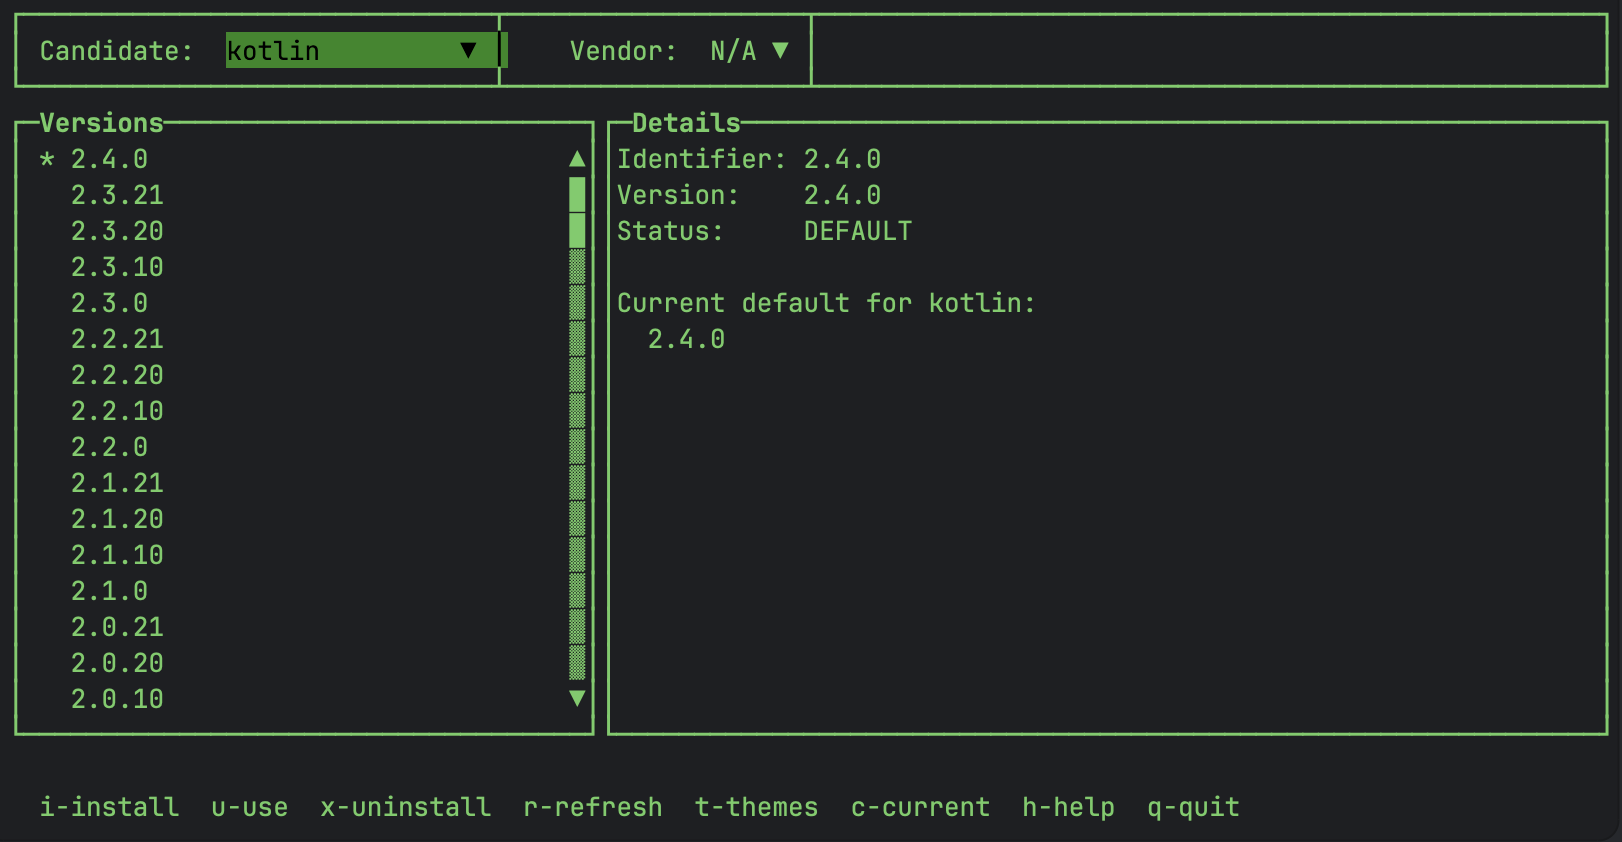
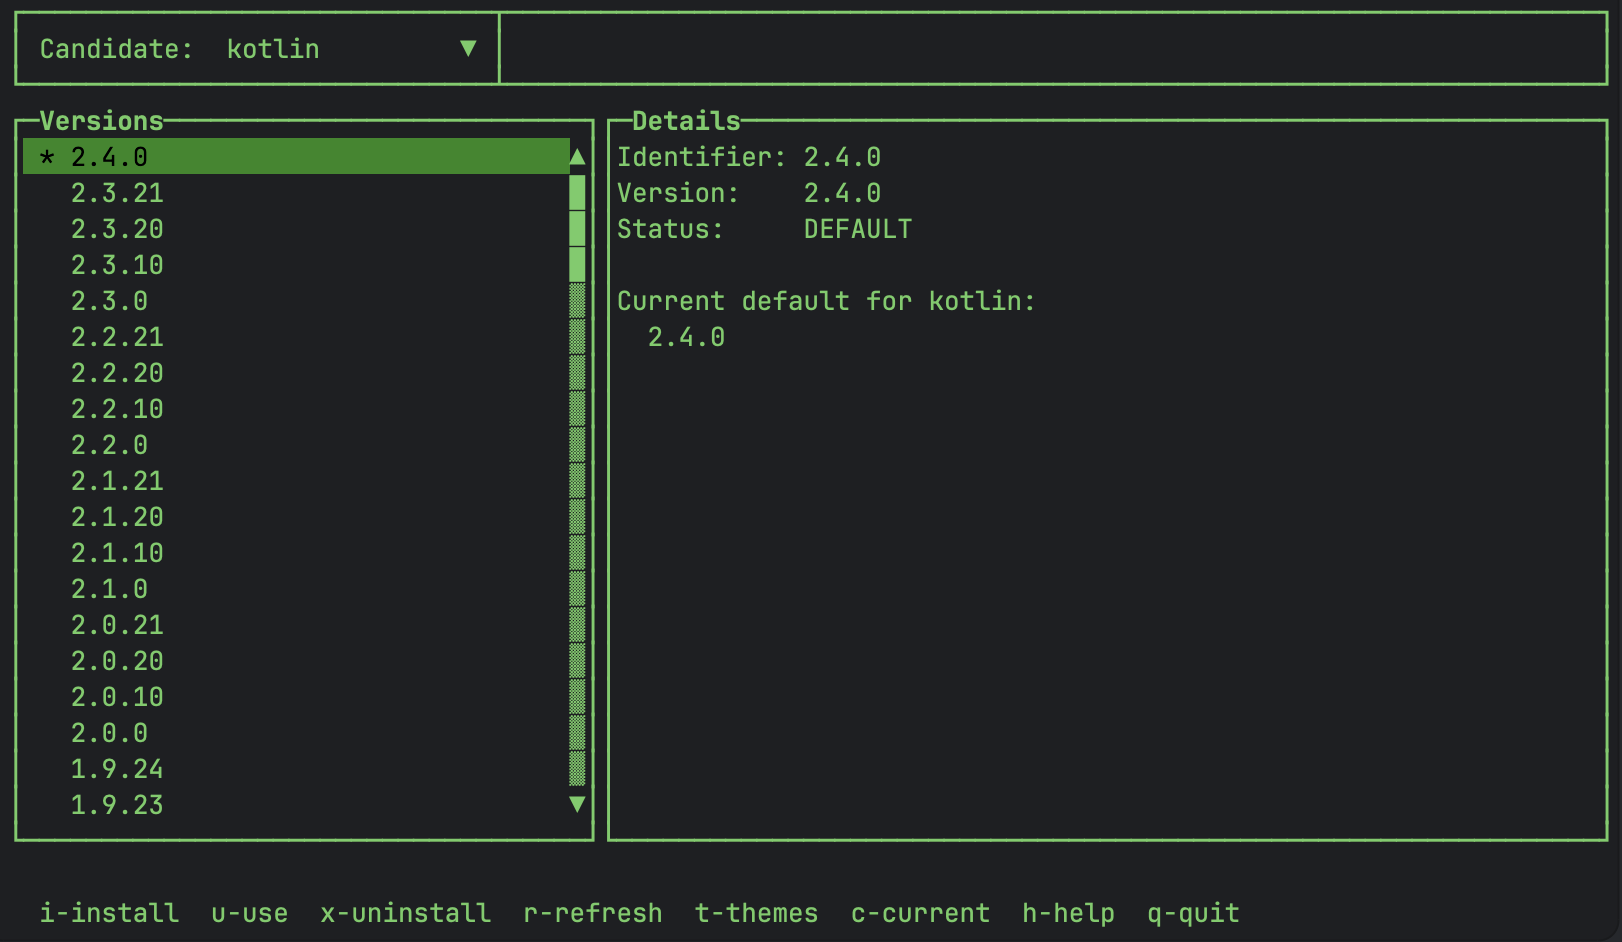
feat: toggle vendor dropdown visibility based on selected candidate type
- Update `AppViewModel` to refresh current defaults after version installation.
- Dynamically show/hide vendor dropdown in `App` when the selected candidate is "java."
- Remove redundant `businessmachine.png` file.

diff --git a/src/main/kotlin/com/sdkui/ui/App.kt b/src/main/kotlin/com/sdkui/ui/App.kt
@@ -43,9 +43,12 @@ class App(
     private val statusBar = StatusBar()
     private val candidateDropdown = CandidateDropdown()
     private val vendorDropdown = VendorDropdown()
+    private val vendorLabel = Label("   Vendor: ")
+    private val topPanel = Panel(LinearLayout(Direction.HORIZONTAL))
     private val window = BasicWindow("SDKUI — SDK Manager")
     private var currentThemeName = "businessmachine"
     private var currentOverlayWindow: BasicWindow? = null
+    private var vendorVisible = true
 
     private fun log(msg: String) {
         logFile.appendText("[${LocalDateTime.now()}] $msg\n")
@@ -55,10 +58,9 @@ class App(
         window.setHints(setOf(Window.Hint.FULL_SCREEN, Window.Hint.NO_DECORATIONS))
 
         // Top: dropdowns
-        val topPanel = Panel(LinearLayout(Direction.HORIZONTAL))
         topPanel.addComponent(Label(" Candidate: "))
         topPanel.addComponent(candidateDropdown)
-        topPanel.addComponent(Label("   Vendor: "))
+        topPanel.addComponent(vendorLabel)
         topPanel.addComponent(vendorDropdown)
 
         // Center: version list + details side by side
@@ -126,6 +128,17 @@ class App(
         versionListPanel.applyState(state)
         detailPanel.applyState(state)
         statusBar.setText(if (state.loading) "Loading..." else state.statusMessage)
+        val isJava = state.selectedCandidate?.name == "java"
+        if (isJava != vendorVisible) {
+            vendorVisible = isJava
+            if (isJava) {
+                topPanel.addComponent(vendorLabel)
+                topPanel.addComponent(vendorDropdown)
+            } else {
+                topPanel.removeComponent(vendorLabel)
+                topPanel.removeComponent(vendorDropdown)
+            }
+        }
         renderOverlay(state)
     }
 

diff --git a/src/main/kotlin/com/sdkui/viewmodel/AppViewModel.kt b/src/main/kotlin/com/sdkui/viewmodel/AppViewModel.kt
@@ -157,6 +157,9 @@ class AppViewModel(
         val version = _state.value.selectedVersion ?: return
         scope.launch {
             runWithProgress("Installing ${version.identifier}", service.install(candidate.name, version.identifier)) {
+                service.getCurrentDefaults().onSuccess { defaults ->
+                    update { copy(currentDefaults = defaults) }
+                }
                 loadVersions()
                 setStatusMessage("Installed ${version.identifier}")
             }